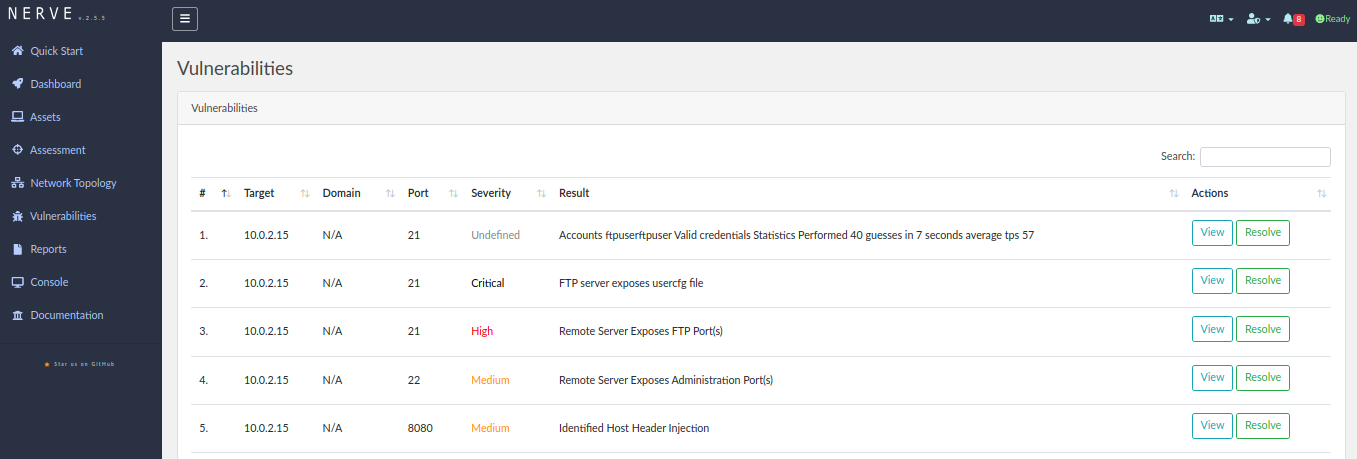
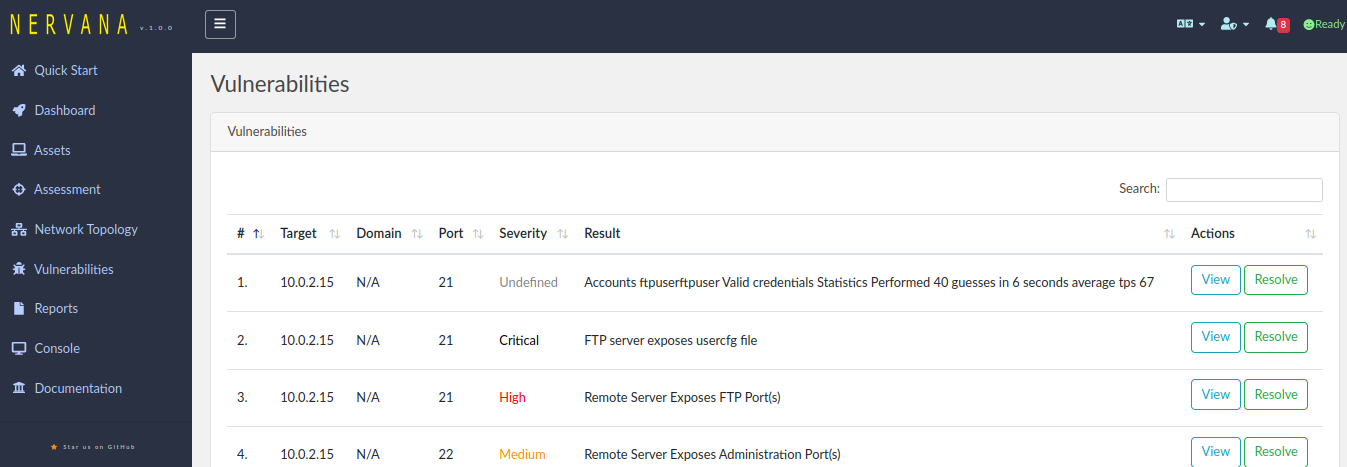
Update README screenshots.

diff --git a/core/utils.py b/core/utils.py
@@ -62,7 +62,7 @@ class Utils:
 
   def is_version_latest(self):
     try:
-      resp = requests.get('https://raw.githubusercontent.com/PaytmLabs/nerve/master/version.py', timeout=10)
+      resp = requests.get('https://raw.githubusercontent.com/TomasTorresB/nervana/master/version.py', timeout=10)
       repo_ver = resp.text.split("'")[1].replace('.', '')
       curr_ver = VERSION.replace('.', '').replace('\'', '')
       if int(repo_ver) > int(curr_ver):

diff --git a/README.md b/README.md
@@ -1,6 +1,6 @@
 # Network Exploitation, Reconnaissance & Vulnerability Apparatus with Nmap Additions (N.E.R.V.A.N.A)
 [![es](https://img.shields.io/badge/lang-es-yellow.svg)](https://github.com/TomasTorresb/nervana/blob/master/README.es.md)
-![Nervana](https://github.com/TomasTorresB/blob/master/static/screenshots/dashboard-en.png?raw=true)
+![Nervana](https://github.com/TomasTorresB/nervana/blob/master/static/screenshots/dashboard-en.png?raw=true)
 
 # Table of Contents
 * [Continuous Security](#Continuous-Security)
